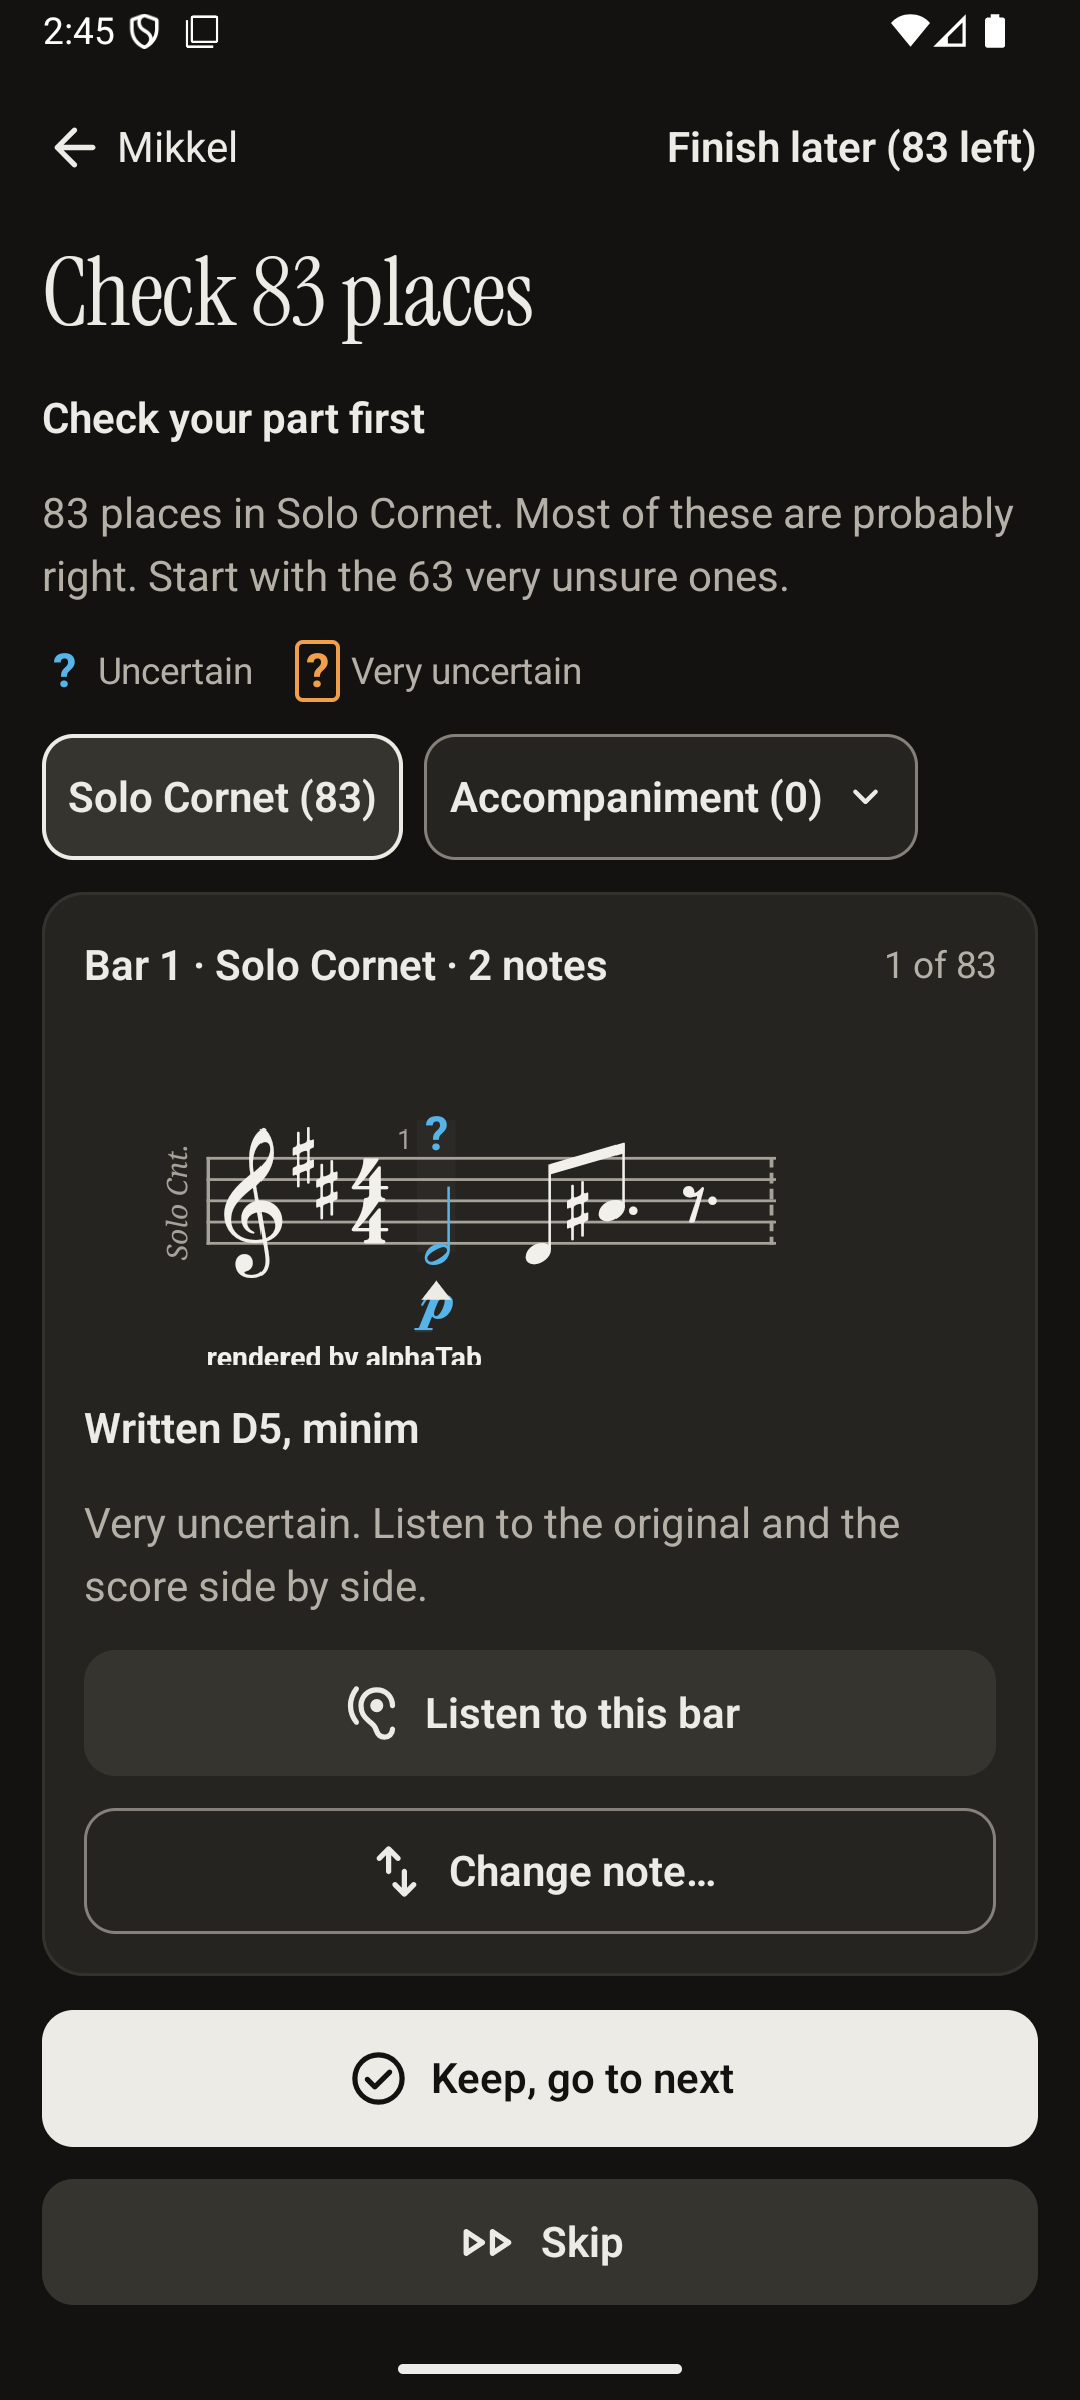
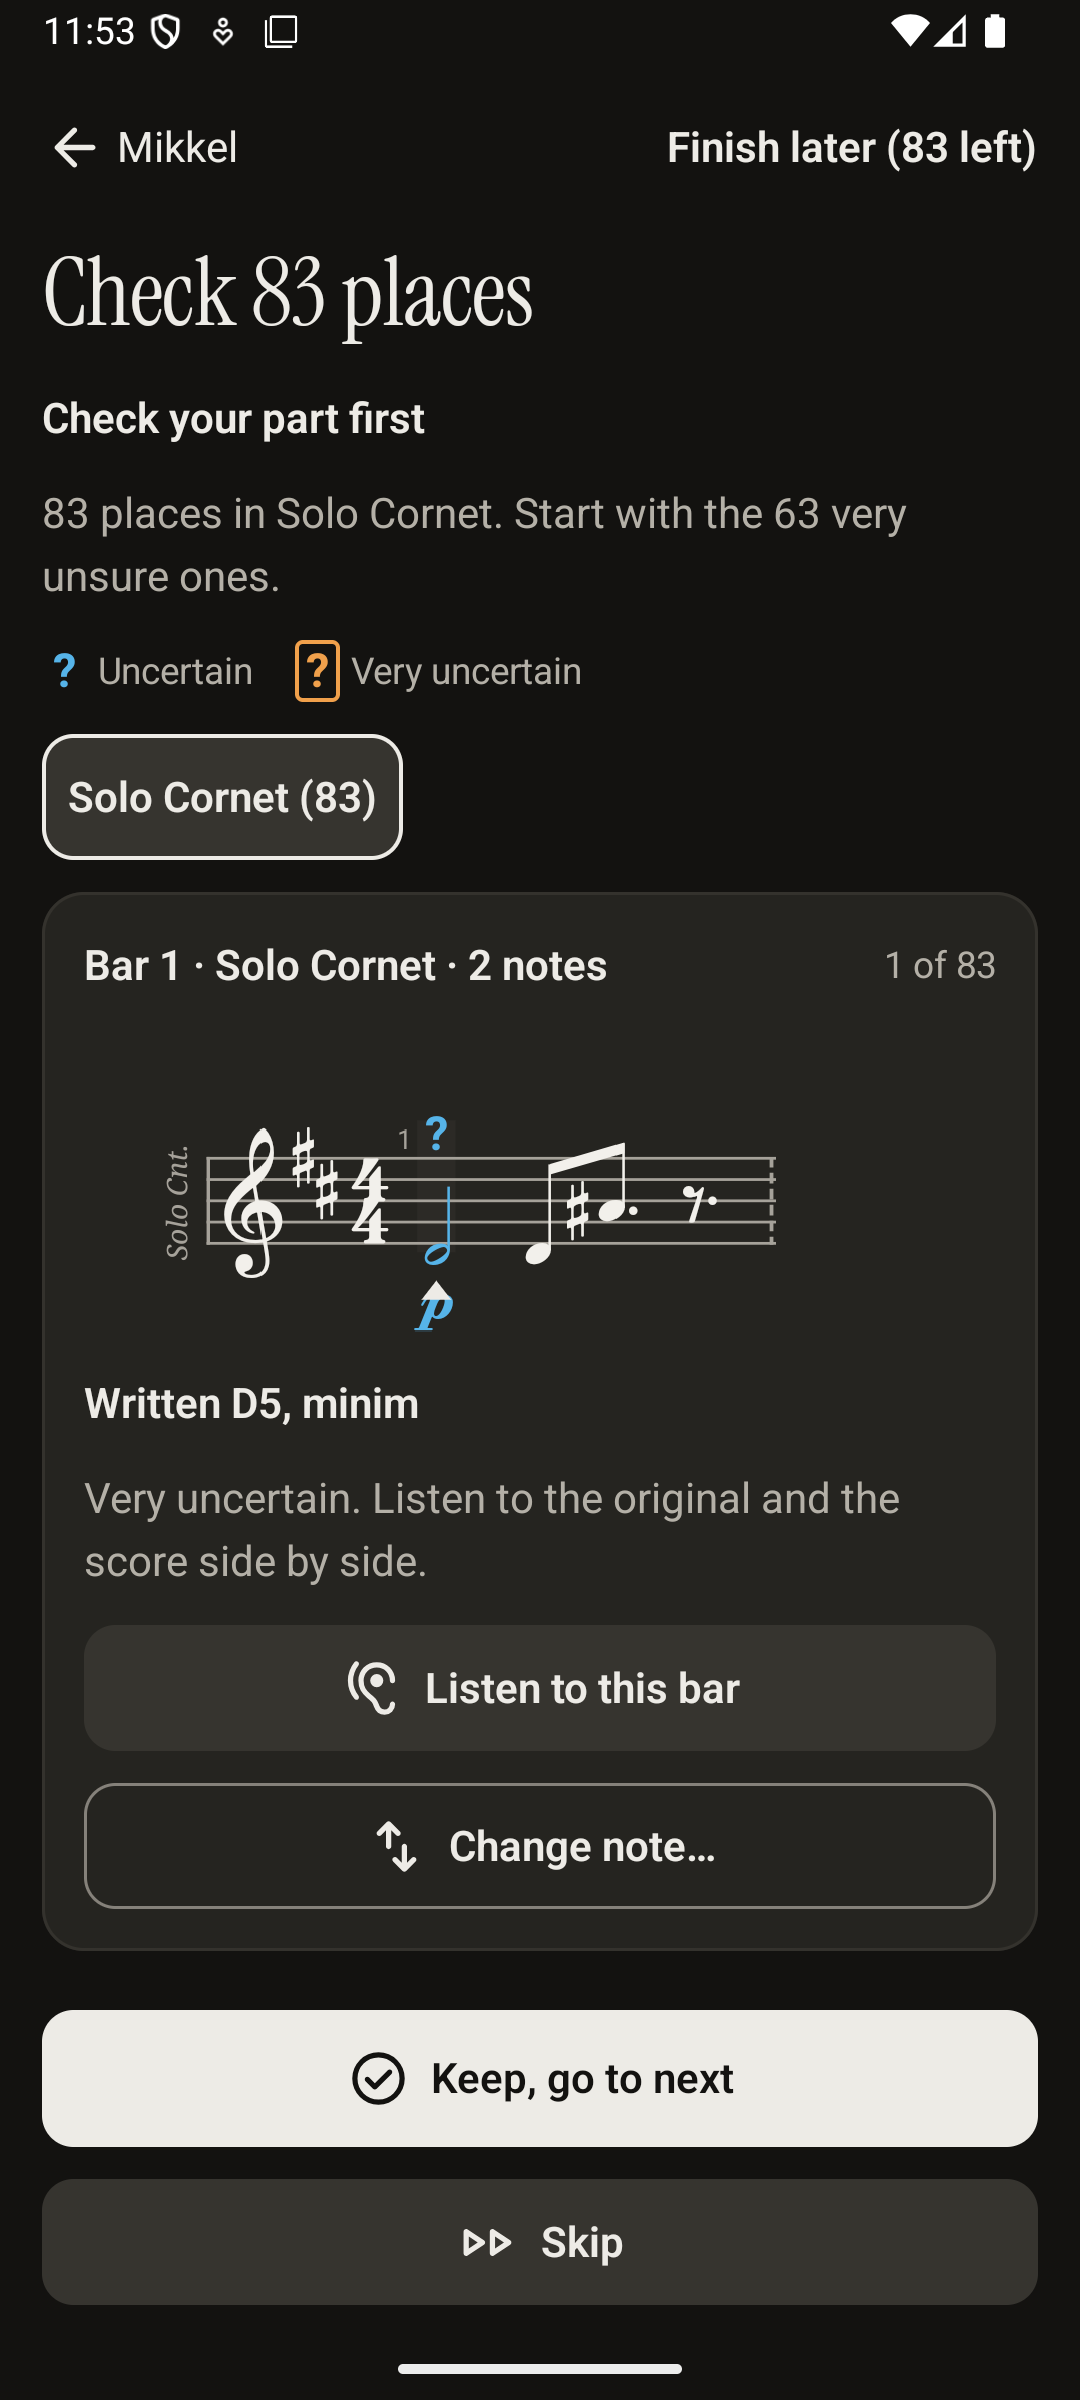
fix(android): cut the review snippet above alphaTab's credit line; test Home's count against the golden; retake the review screenshots

diff --git a/apps/android/app/src/test/kotlin/no/brasscribe/play/ui/PartsAndAnnouncementsTest.kt b/apps/android/app/src/test/kotlin/no/brasscribe/play/ui/PartsAndAnnouncementsTest.kt
@@ -34,4 +34,16 @@ class PartsAndAnnouncementsTest {
             announcements(view, Lang.NB, KotlinCoreBridge),
         )
     }
+
+    /** Home's "N to check" is what Review opens on: one per engine group, only in the parts it grouped. */
+    @Test
+    fun homeCountsTheSamePlacesAsReview() {
+        val f = java.io.File("../../../data/golden/mikkel-arranged-band/composition.json")
+        org.junit.Assume.assumeTrue(f.exists())
+        val c = no.brasscribe.play.model.CompositionJson.decode(f.readText())
+        val groups = c.review!!.size
+        val solo = reviewGroups(c, "solo", partViewFor(c, "solo", emptySet(), KotlinCoreBridge)).size
+        assertEquals(groups, solo)
+        assertEquals(groups, itemsToCheck(c, emptyMap(), KotlinCoreBridge))
+    }
 }

diff --git a/apps/android/app/src/main/kotlin/no/brasscribe/play/ui/ReviewScreen.kt b/apps/android/app/src/main/kotlin/no/brasscribe/play/ui/ReviewScreen.kt
@@ -637,7 +637,8 @@ private fun BarSnippetView(musicXml: String, bar: Int, offsetQuarters: Double, b
     }
     var height by remember { mutableStateOf(128f) }
     androidx.compose.runtime.DisposableEffect(snippet) {
-        snippet.onStaffBottom = { bottom -> snippet.view.post { height = bottom + 6f } }
+        // alphaTab's credit line overlaps the system's bottom edge by ~1.5 dp; the dynamics end ~5 dp above it.
+        snippet.onStaffBottom = { bottom -> snippet.view.post { height = bottom - 3f } }
         onDispose { snippet.onStaffBottom = {} }
     }
     androidx.compose.runtime.LaunchedEffect(musicXml, bar, offsetQuarters, barCount) { snippet.show(musicXml, bar, offsetQuarters, barCount) }
